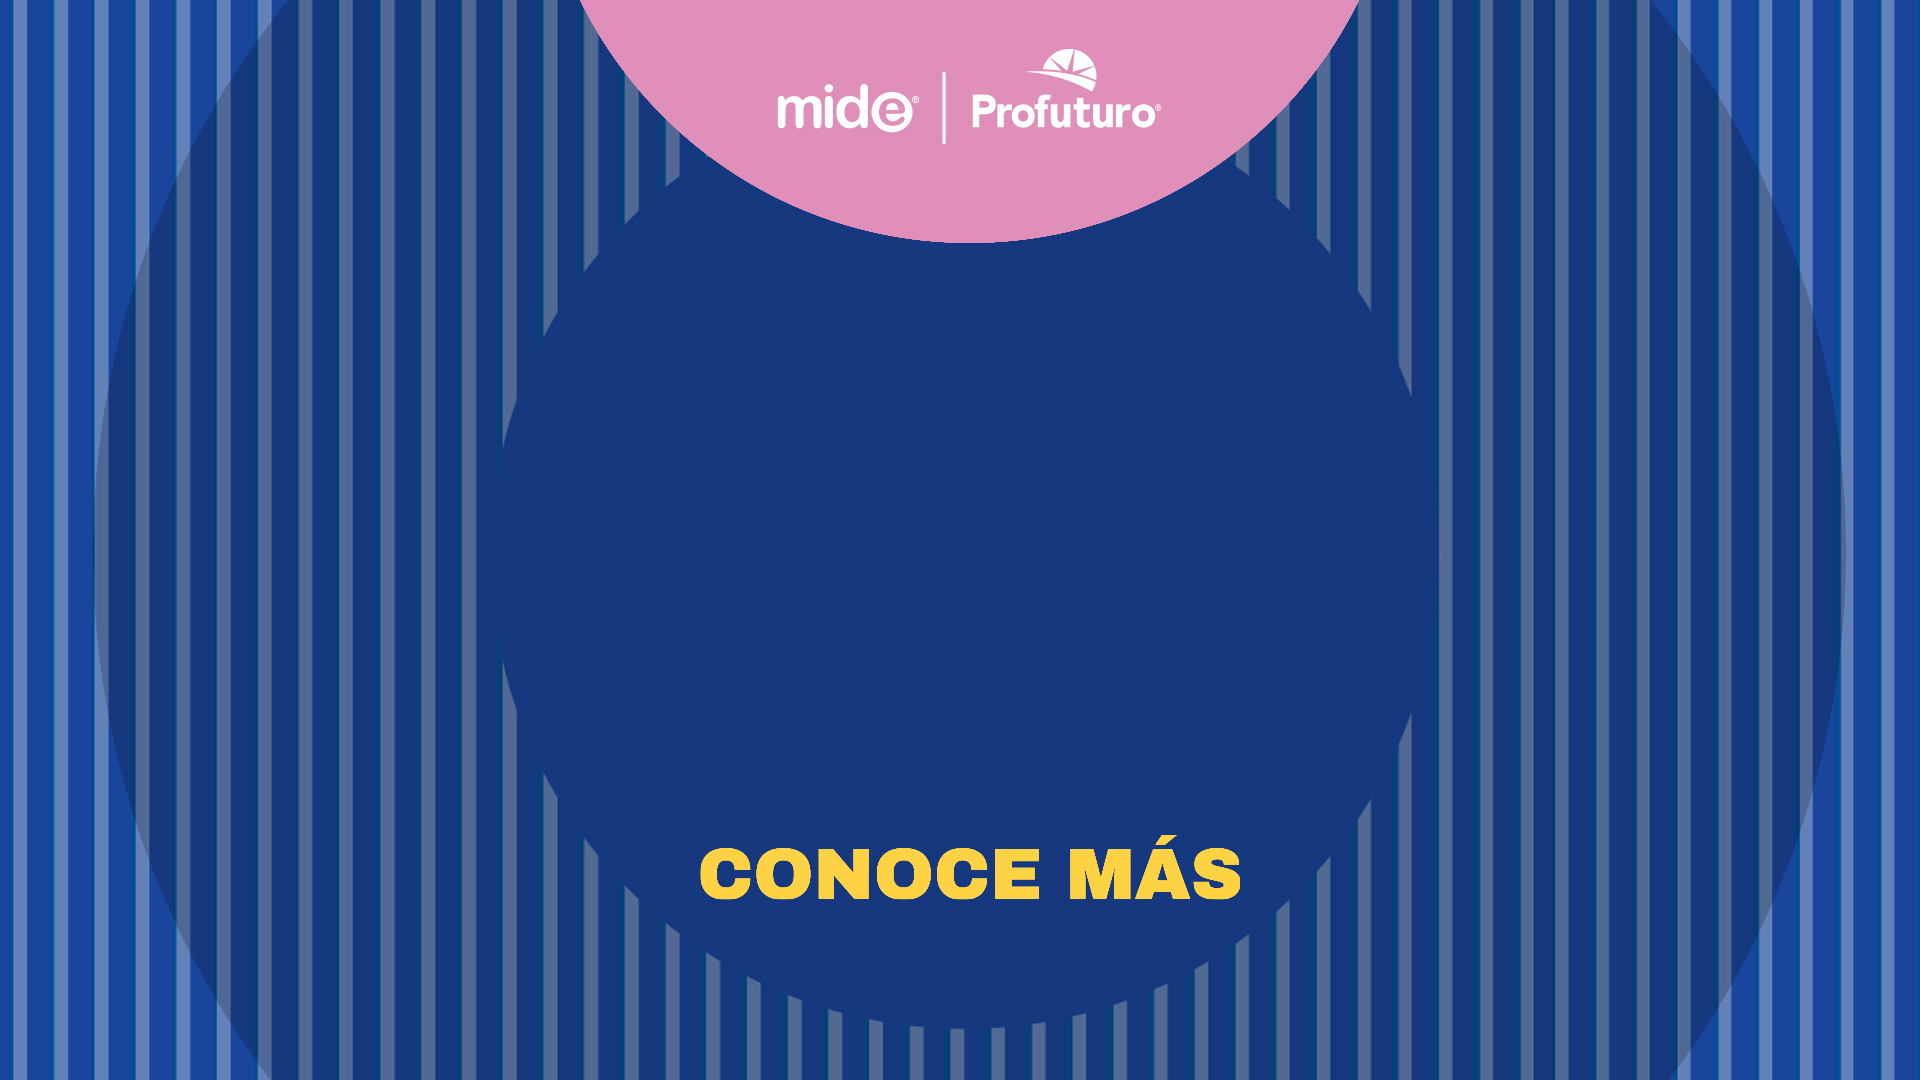
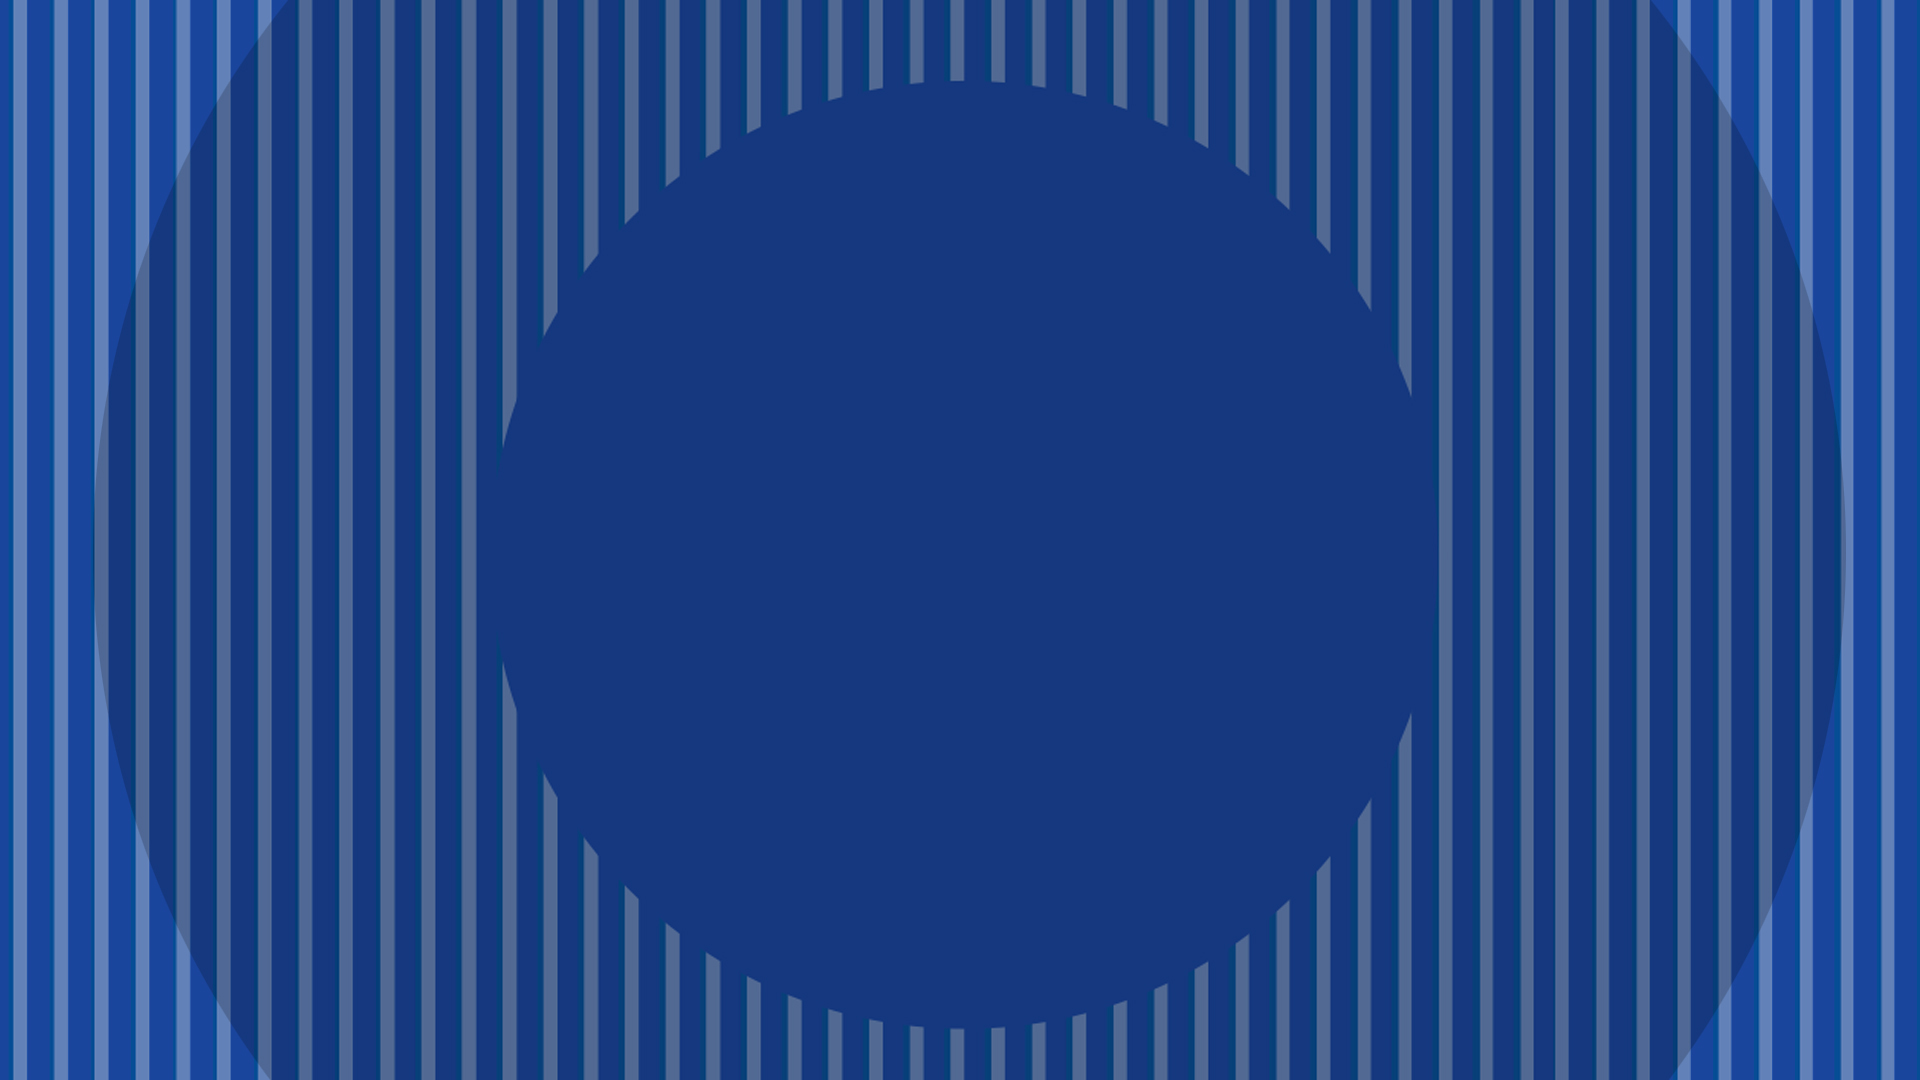
1rst Update

Changed region(s): [[0.2812, 0.0, 0.7188, 0.2444], [0.3438, 0.7639, 0.6562, 0.8556]]

diff --git a/app.js b/app.js
@@ -30,13 +30,14 @@ cube.position.set(3, 1, 0);
 //scene.add(cube);
 
 /* ---------------- IMG 0 ---------------- */
-const tex0 = loader.load("images/LogoWhite.png");
+const tex0 = loader.load("images/Rosa.png");
 const img0 = new THREE.Mesh(
-    new THREE.PlaneGeometry(1, 1),
+    new THREE.PlaneGeometry(6, 3),
     new THREE.MeshBasicMaterial({ map: tex0, transparent: true })
 );
-img0.position.set(0, 1, 0.1);
-//scene.add(img0);
+img0.position.set(0, 0, 0.1);
+img0.scale.set(1.5, 1.5, 1);
+scene.add(img0);
 
 /* ---------------- IMG 1 ---------------- */
 const tex1 = loader.load("images/img1.jpg");
@@ -55,9 +56,9 @@ const img2 = new THREE.Mesh(
 );
 
 //img2.position.set(0, 0, 0);
-img2.position.set(0, 0, 2.9);
-img2.scale.set(2, 2, 2); // ← 200%
-img2.material.opacity = 0.1; // ← visible totalmente desde el inicio si quieres
+img2.position.set(0, 0, 0);
+img2.scale.set(0.5, 0.5, 1); // ← 200%
+img2.material.opacity = 0.0; // ← visible totalmente desde el inicio si quieres
 
 scene.add(img2);
 
@@ -68,9 +69,9 @@ const img3 = new THREE.Mesh(
     new THREE.MeshBasicMaterial({ map: tex3, transparent: true })
 );
 
-img3.position.set(0, 0, 2.9);
-img3.scale.set(2, 2, 2); // ← Igual que imagen 2
-img3.material.opacity = 0; // ← Comienza invisible
+img3.position.set(0, 0, 0);
+img3.scale.set(0.5, 0.5, 1); // ← Igual que imagen 2
+img3.material.opacity = 1; // ← Comienza invisible
 
 scene.add(img3);
 
@@ -90,9 +91,9 @@ const img4 = new THREE.Mesh(
     new THREE.PlaneGeometry(12, 6),
     new THREE.MeshBasicMaterial({ map: tex4, transparent: true })
 );
-img4.material.opacity = 0;
-img4.scale.set(2, 2, 2);
-img4.position.set(0, 0, 2.9);
+img4.material.opacity = 1;
+img4.scale.set(0.7, 0.8, 1);
+img4.position.set(0, 0.1, -0.1);
 scene.add(img4);
 
 /* ======================================================
@@ -115,30 +116,43 @@ const tl = gsap.timeline({ paused: true });
 /* Cubo */
 //tl.to(cube.rotation, { y: -Math.PI * 2, ease: "none", duration: 1 }, 0);
 
-tl.to(img0.material, { opacity: 0, ease: "none", duration: 0.25 }, 0);
+//tl.to(img0.material, { opacity: 0, ease: "none", duration: 0.25 }, 0);
+tl.to(img0.position, { y: 2, ease: "none", duration: 0.2 }, 0.0);
 
 /* Parallax imagen 1 */
 tl.to(img1.scale, { x: 0.85, y: 0.85, ease: "none", duration: 0.2 }, 0);
 
 /* Parallax imagen 2 */
-tl.to(img2.position, { z: 0, ease: "none", duration: 0.2 }, 0.2);
-tl.to(img3.position, { z: 0, ease: "none", duration: 0.2 }, 0.2);
-tl.to(img4.position, { z: 0.02, ease: "none", duration: 0.2 }, 0.2);
+tl.to(img2.position, { x: 6, y: 6, z: 0, ease: "none", duration: 0.2 }, 0.2);
+tl.to(img3.position, { x: 6, y: 6, z: 0, ease: "none", duration: 0.2 }, 0.2);
+tl.to(img1.material, { opacity: 0, ease: "none", duration: 0.3 }, 0.2);
 
-tl.to(img2.scale, { x: 0.75, y: 0.75, ease: "none", duration: 0.4 }, 0);
-tl.to(img3.scale, { x: 0.75, y: 0.75, ease: "none", duration: 0.4 }, 0);
-//tl.to(img4.scale, { x: 0.4, y: 0.4, ease: "none", duration: 0.4 }, 0);
+//tl.to(img4.position, { z: 0.02, ease: "none", duration: 0.2 }, 0.2);
 
-tl.to(img2.material, { opacity: 1, ease: "none", duration: 0.3 }, 0.2);
-tl.to(img3.material, { opacity: 1, ease: "none", duration: 0.3 }, 0.3);
+tl.to(img2.scale, { x: 6.1, y: 6.1, ease: "none", duration: 0.4 }, 0.0);
+tl.to(img3.scale, { x: 6.1, y: 6.1, ease: "none", duration: 0.4 }, 0.0);
 
-tl.to(img3.material, { opacity: 0, ease: "none", duration: 0 }, 0.6);
-tl.to(imgB.material, { opacity: 1, ease: "none", duration: 0 }, 0.6);
-tl.to(img4.material, { opacity: 1, ease: "none", duration: 0.2 }, 0.6);
 
-tl.to(img4.position, { z: 0, ease: "none", duration: 0 }, 0.6);
-tl.to(img4.scale, { x: 0.81, y: 0.81, ease: "none", duration: 0.2 }, 0.6);
-tl.to(img4.position, { y: 0, ease: "none", duration: 0.2 }, 0.6);
+
+tl.to(img2.material, { opacity: 0.6, ease: "none", duration: 0.3 }, 0.2);
+tl.to(img3.material, { opacity: 0, ease: "none", duration: 0.3 }, 0.2);
+
+tl.to(img2.material, { opacity: 0, ease: "none", duration: 0.2 }, 0.5);
+tl.to(img2.position, { x: -10, ease: "none", duration: 0.2 }, 0.5);
+
+tl.to(img4.material, { opacity: 1, ease: "none", duration: 0 }, 0.5);
+tl.to(img4.position, { z: 0, y: 0, ease: "none", duration: 0 }, 0.7);
+
+
+//tl.to(img4.scale, { x: 0.81, y: 0.81, ease: "none", duration: 0.2 }, 0.6);
+
+//tl.to(img3.material, { opacity: 0, ease: "none", duration: 0 }, 0.6);
+//tl.to(imgB.material, { opacity: 1, ease: "none", duration: 0 }, 0.6);
+//tl.to(img4.material, { opacity: 1, ease: "none", duration: 0.2 }, 0.6);
+
+//tl.to(img4.position, { z: 0, ease: "none", duration: 0 }, 0.6);
+//tl.to(img4.scale, { x: 0.81, y: 0.81, ease: "none", duration: 0.2 }, 0.6);
+//tl.to(img4.position, { y: 0, ease: "none", duration: 0.2 }, 0.6);
 
 /* ======================================================
    CONTROL DE SCROLL SIN BLOQUEOS
